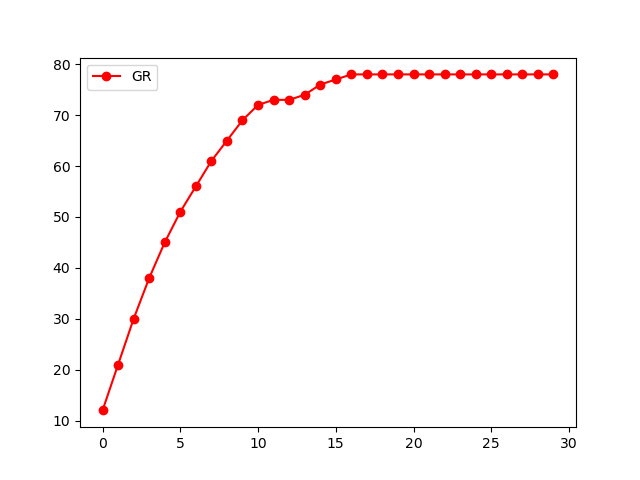
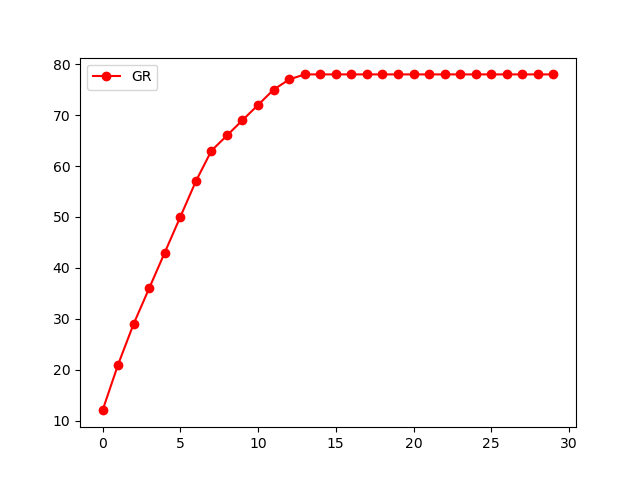
revise algs

Changed region(s): [[0.1875, 0.25, 0.375, 0.75], [0.4062, 0.125, 0.5312, 0.2188]]

diff --git a/helloworld/maxcut/random_walk.py b/helloworld/maxcut/random_walk.py
@@ -35,7 +35,7 @@ def random_walk(init_solution: Union[List[int], np.array], num_steps: int, graph
 
 if __name__ == '__main__':
     # graph1 = read_as_networkx_graph('data/gset_14.txt')
-    graph = read_txt_as_networkx_graph('data/syn_30_111.txt')
+    graph = read_txt_as_networkx_graph('data/syn_30_110.txt')
     # init_solution = [1, 0, 1, 0, 1]
     init_solution = list(np.random.randint(0, 2, graph.number_of_nodes()))
     rw_score, rw_solution, rw_scores = random_walk(init_solution=init_solution, num_steps=1000, graph=graph)

diff --git a/helloworld/maxcut/simulated_annealing.py b/helloworld/maxcut/simulated_annealing.py
@@ -45,7 +45,7 @@ def simulated_annealing(init_solution: Union[List[int], np.array], init_temperat
     return curr_score, curr_solution, scores
 
 if __name__ == '__main__':
-    graph = read_txt_as_networkx_graph('data/syn_30_111.txt')
+    graph = read_txt_as_networkx_graph('data/syn_30_110.txt')
     init_solution = list(np.random.randint(0, 2, graph.number_of_nodes()))
 
     init_temperature = 5

diff --git a/helloworld/maxcut/greedy.py b/helloworld/maxcut/greedy.py
@@ -49,7 +49,7 @@ def greedy(init_solution: Union[List[int], np.array], num_steps: int, graph: nx.
 
 
 if __name__ == '__main__':
-    graph = read_txt_as_networkx_graph('data/syn_30_111.txt')
+    graph = read_txt_as_networkx_graph('data/syn_30_110.txt')
     init_solution = [0] * graph.number_of_nodes()
     num_steps = 30
     alg_name = 'GR'
